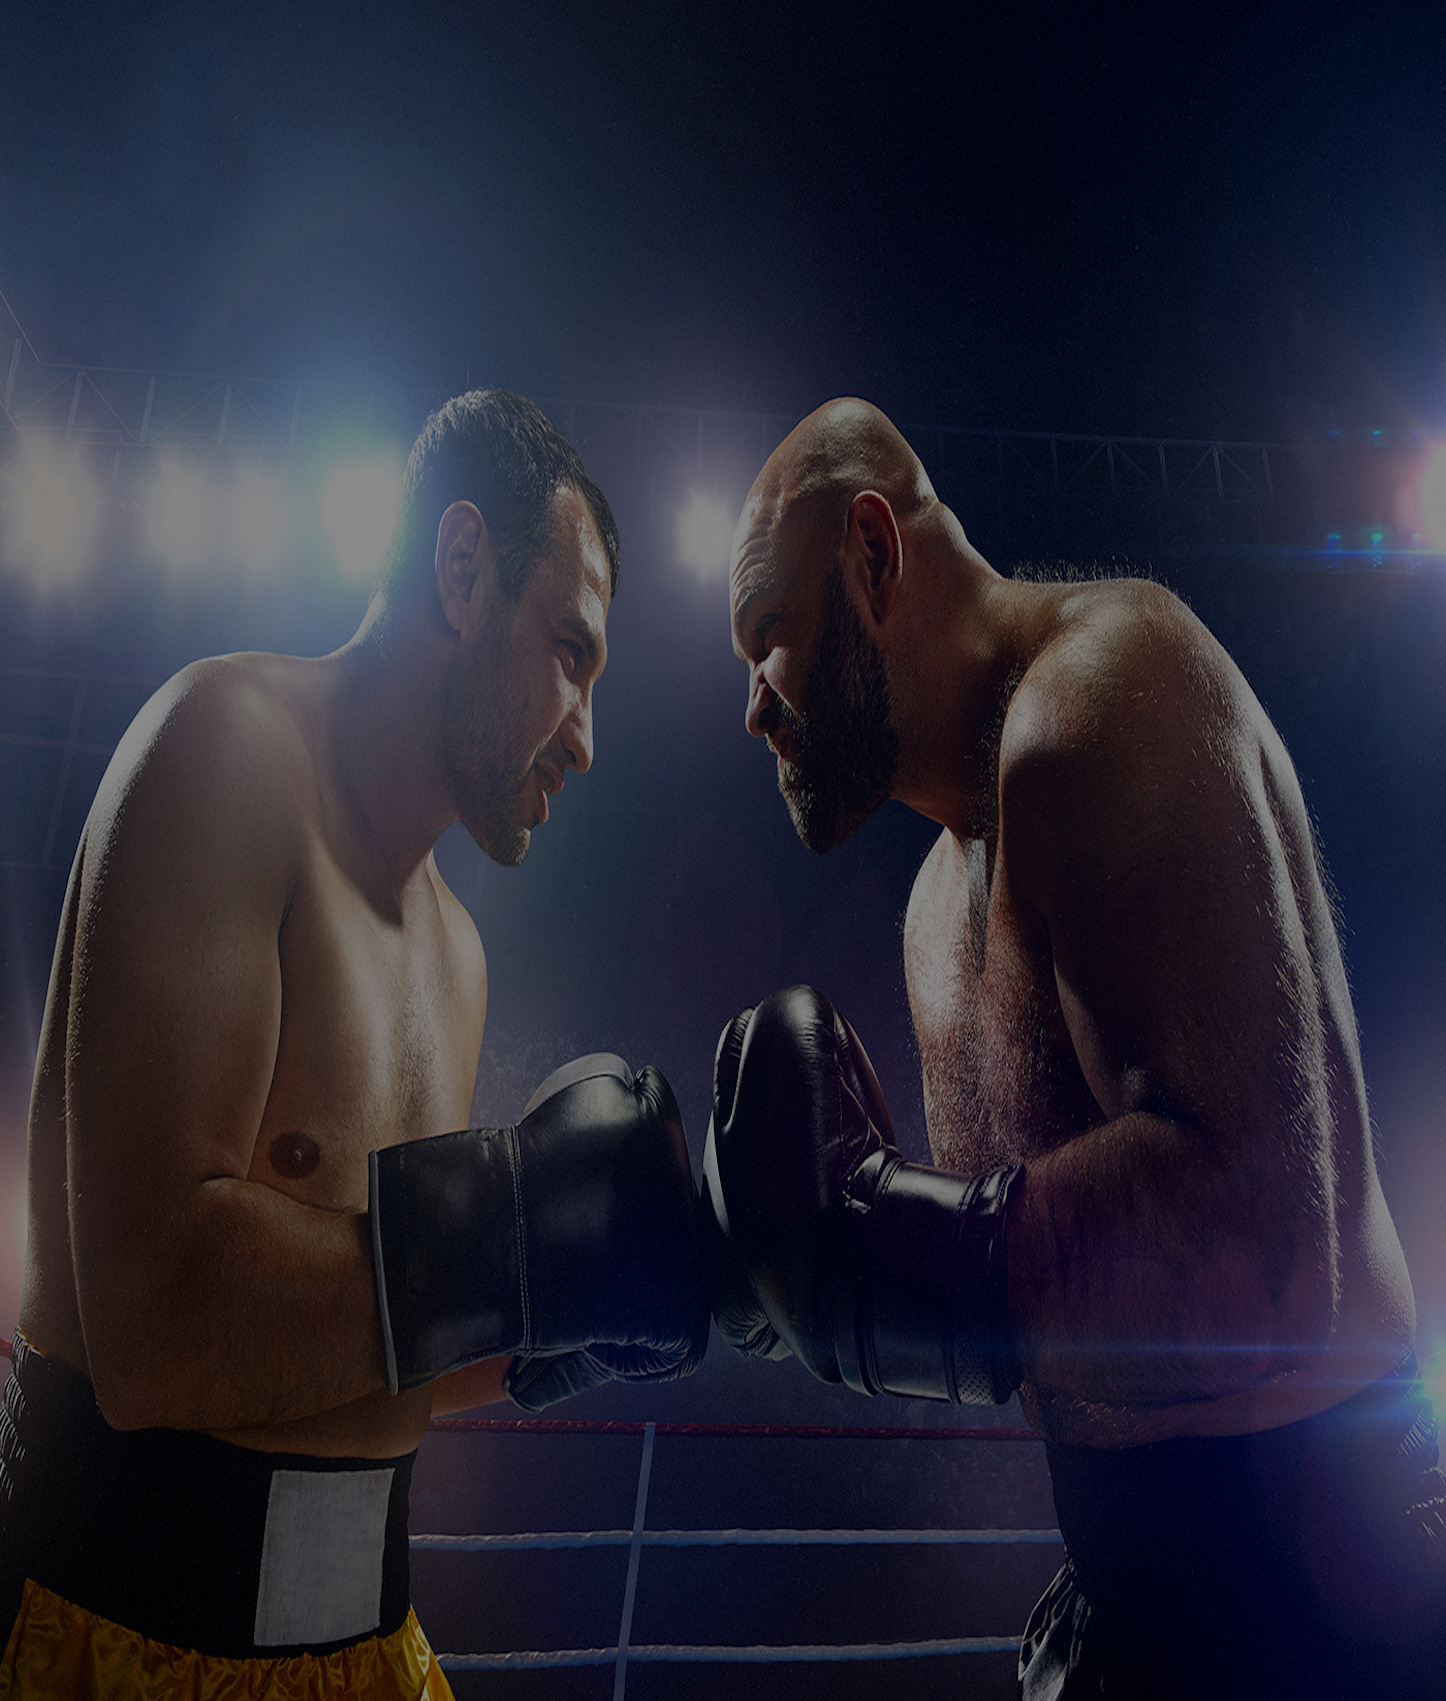
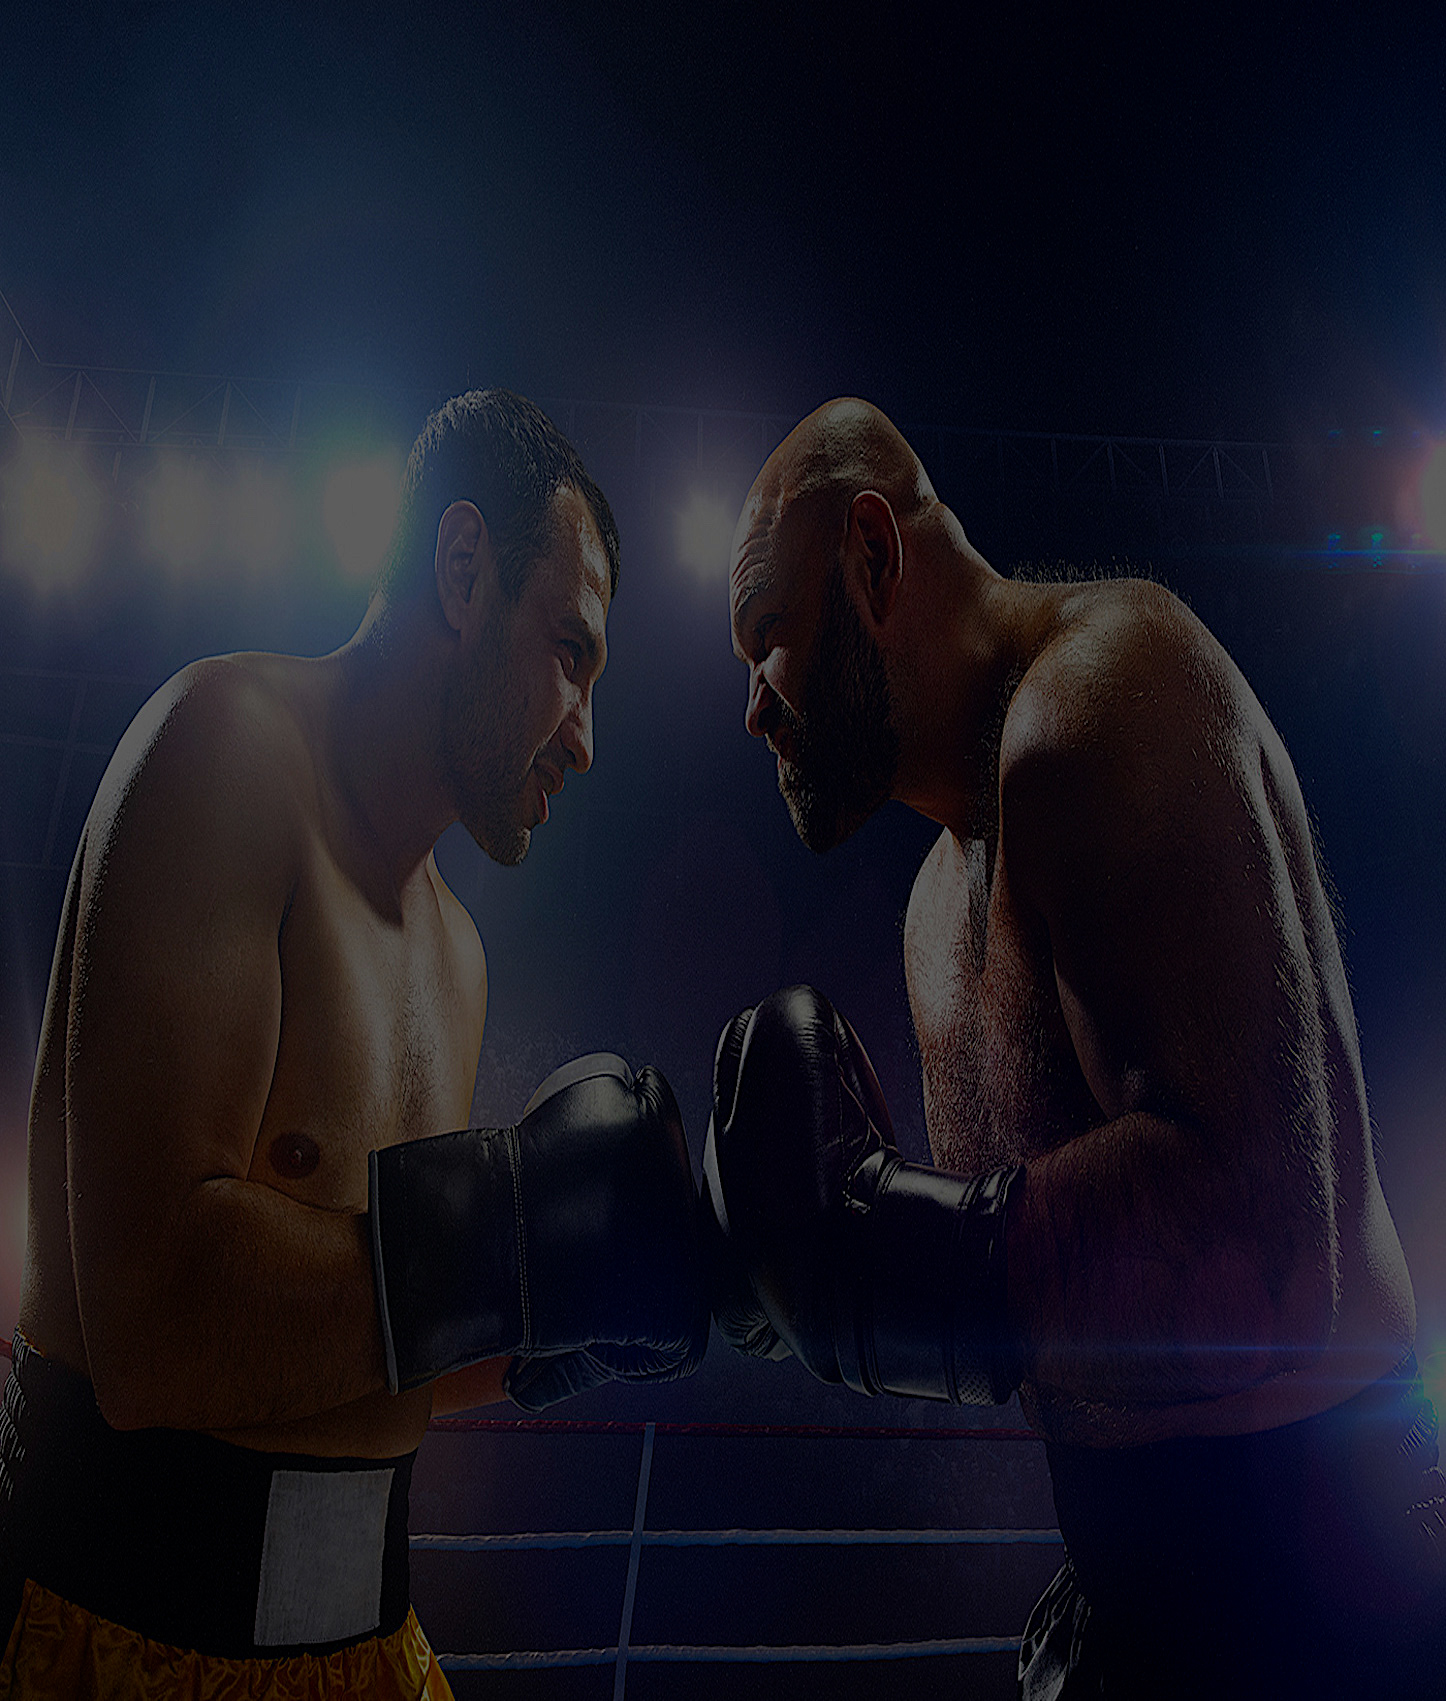
fix

diff --git a/app/assets/javascripts/taiketsu_effect.js b/app/assets/javascripts/taiketsu_effect.js
@@ -15,9 +15,13 @@ $(function (){
         $('.header, .footer').css({
             'background-image' : 'url(./images/giphy.gif)',
         });
+        $('.header').css({
+            'height' : '600px'
+        })
         $('.main').css({
             'background-image' : 'url(./images/boxing.jpg)',
             'background-repeat' : 'none',
+            'background-size' : 'cover'
         })
         $('.header__middle--button').prepend("<img src = './images/jhonson.png' width = '200' height = '300'>");
         $('.header__middle--button').append("<img src = './images/resura.png' width = '200' height = '300'>");
